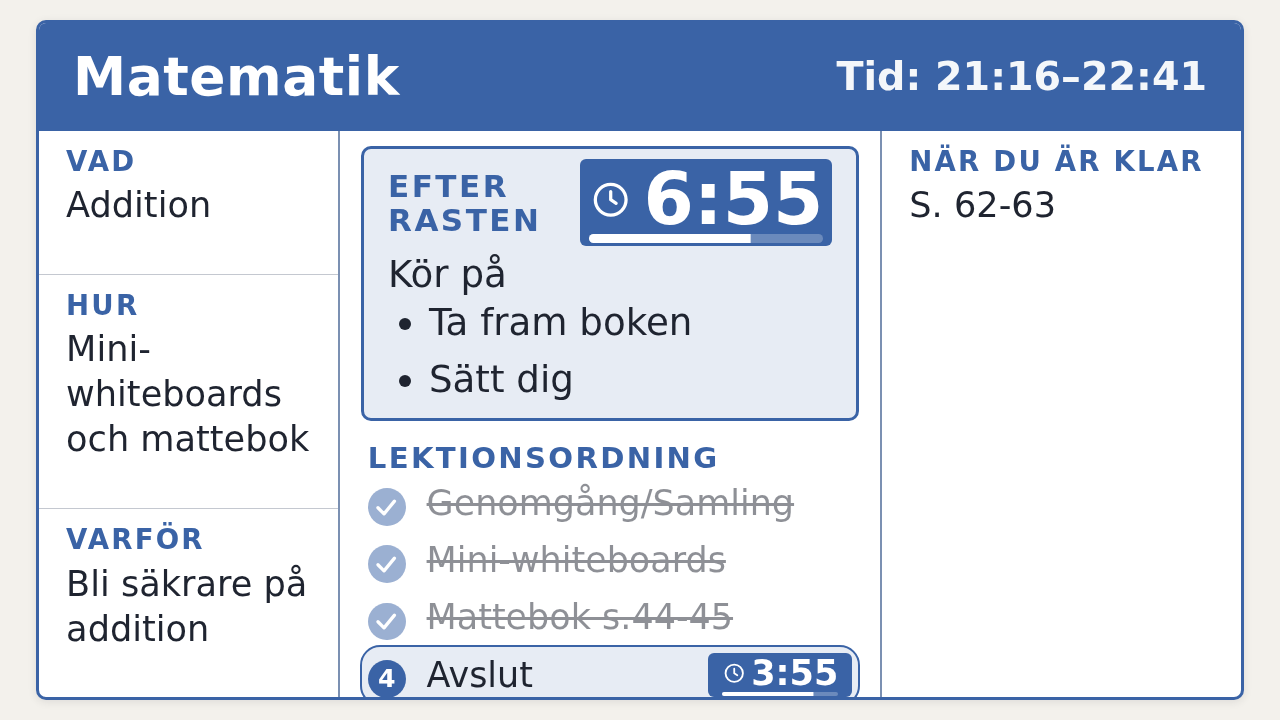
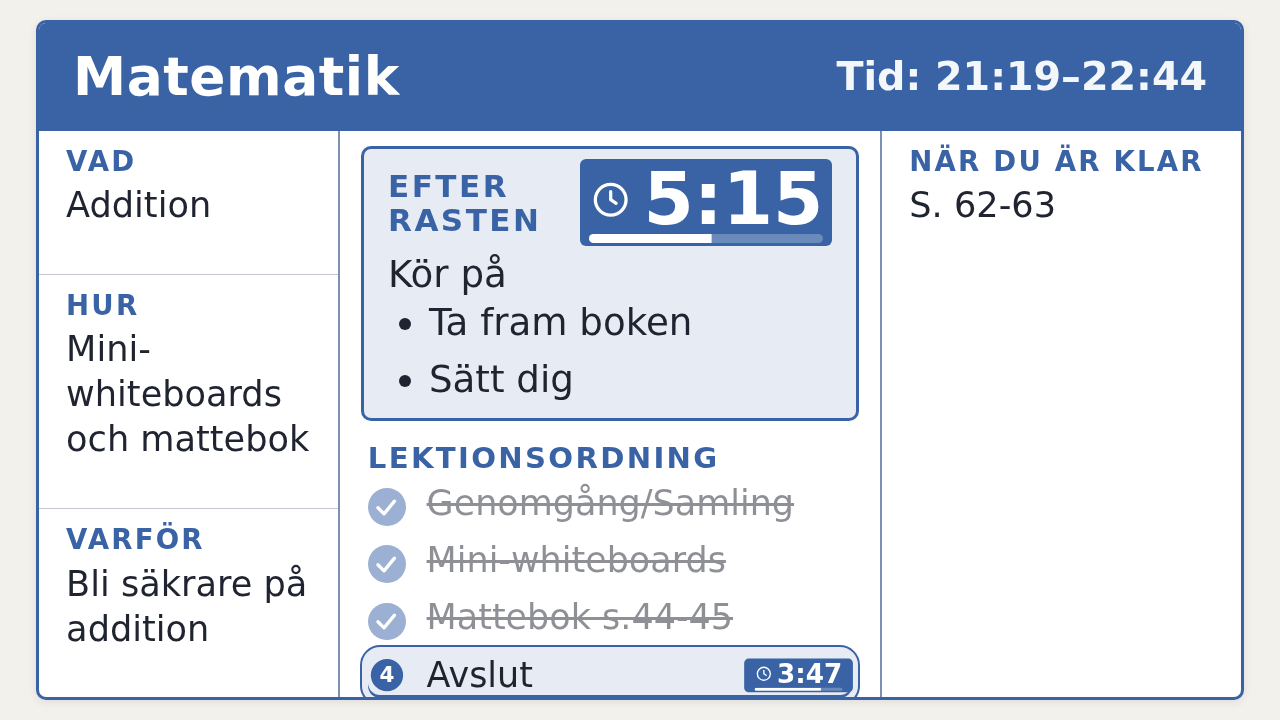
issue #146: sista stegets ram synlig och omsluter bubbla och bricka i #138-fallet, utan layoutpåverkan

diff --git a/css/modes/lektion.css b/css/modes/lektion.css
@@ -749,11 +749,24 @@ ol.lb-steps > li.lb-step--now {
   outline: 2px solid var(--subj-deep, var(--subj));
   outline-offset: 0.2em;
 }
-/* Ramen ritas alltid UTANFÖR raden, så att den omsluter bubbla, text och
-   bricka. I #138-fallet (ingen bottenrad, Efter rasten-rutan i kolumnen)
-   kan sista steget sluta vid tavlans ram; då sammanfaller ramens underkant
-   med tavlans egen ram i ämnesfärgen. fitBoard räknar aldrig in
-   markeringen, så skalorna blir desamma som utan markering. */
+/* Issue #138-fallet: utan bottenrad och med Efter rasten-rutan får sista
+   steget sluta vid tavlans ram (upp till 1 px under, stepsWithin), så
+   ramens underkant utanför raden skulle klippas. Där ritas ramen som
+   vanligt utanför raden upptill och på sidorna, men underkanten ritas
+   innanför raden (inset box-shadow, 3 px). Bubbla och bricka krymps
+   visuellt (transform — påverkar ingen layout) så att de ryms ovanför den
+   linjen. fitBoard räknar aldrig in markeringen: skalor och radhöjder är
+   desamma med och utan markering. */
+.lesson-board:not(:has(> .lb-bottom)) .lb-col--mid:has(> .lb-break:not(.lb-break--off)) ol.lb-steps > li.lb-step--now:last-child {
+  box-shadow: 0 0 0 0.2em var(--lb-break-bg), inset 0 -3px 0 0 var(--subj-deep, var(--subj));
+}
+.lesson-board:not(:has(> .lb-bottom)) .lb-col--mid:has(> .lb-break:not(.lb-break--off)) ol.lb-steps > li.lb-step--now:last-child::before {
+  transform: translateY(-0.15em) scale(0.85);
+}
+.lesson-board:not(:has(> .lb-bottom)) .lb-col--mid:has(> .lb-break:not(.lb-break--off)) ol.lb-steps > li.lb-step--now:last-child > .lb-step__timer {
+  transform: scale(0.75);
+  transform-origin: right center;
+}
 /* Stegtexten tar all ledig plats och bryts först när den inte ryms
    bredvid brickan (ingen fast bredd eller flex-basis). */
 .lb-step--timer > .lb-step__text { flex: 1 1 auto; min-width: 0; }

diff --git a/docs/screenshots/issue-146/README.md b/docs/screenshots/issue-146/README.md
@@ -24,8 +24,8 @@ tema — tavlans papper är vitt i alla teman, bara panelen skiljer).
 | `10-elev-1280-efter-rasten-utan-timer` | Efter rasten med timern avstängd: ingen bricka. |
 
 | `5-elev-1920-slojd-steg-halvvags` | Slöjd, stegtimer halvvägs, 1920. |
-| `13-elev-1280-avslut-timer-efter-rasten` | Matematik, 4 steg, Efter rasten på, steg 4 "Avslut" pågår med timer (Testarens runda 3). Ramen ligger utanför raden och omsluter bubbla, text och bricka; sista steget slutar vid tavlans ram (#138), så ramens underkant sammanfaller med tavlans ram i ämnesfärgen. |
-| `14-elev-1280-138-fallet-sista-steget` | 9 steg + Efter rasten, sista steget markerat: `--lb-steps-scale` 0.68 och identiska radhöjder utan och med markering (fitBoard räknar aldrig in markeringen). Ramen som i bild 13. |
+| `13-elev-1280-avslut-timer-efter-rasten` | Matematik, 4 steg, Efter rasten på, steg 4 "Avslut" pågår med timer (#138-fallet: sista steget slutar vid tavlans ram). Ramen omsluter bubbla, text och bricka: sidor och överkant utanför raden, underkanten innanför (3 px inset box-shadow), och bubbla/bricka krymps visuellt med transform så att de ligger ovanför den. `--lb-steps-scale` 0.94 och radhöjder 45.00 px med och utan markering. |
+| `14-elev-1280-138-fallet-sista-steget` | 9 steg + Efter rasten, sista steget med timer: `--lb-steps-scale` 0.68 och identiska radhöjder utan och med markering. |
 | `12-larare-{ljust,morkt}-1920-slojd-steg` | Lärarvyn i 1920, ljust och mörkt tema. |
 
 **Efter rasten vid Klart:** rutan tonas bort när tiden är ute (oförändrat
